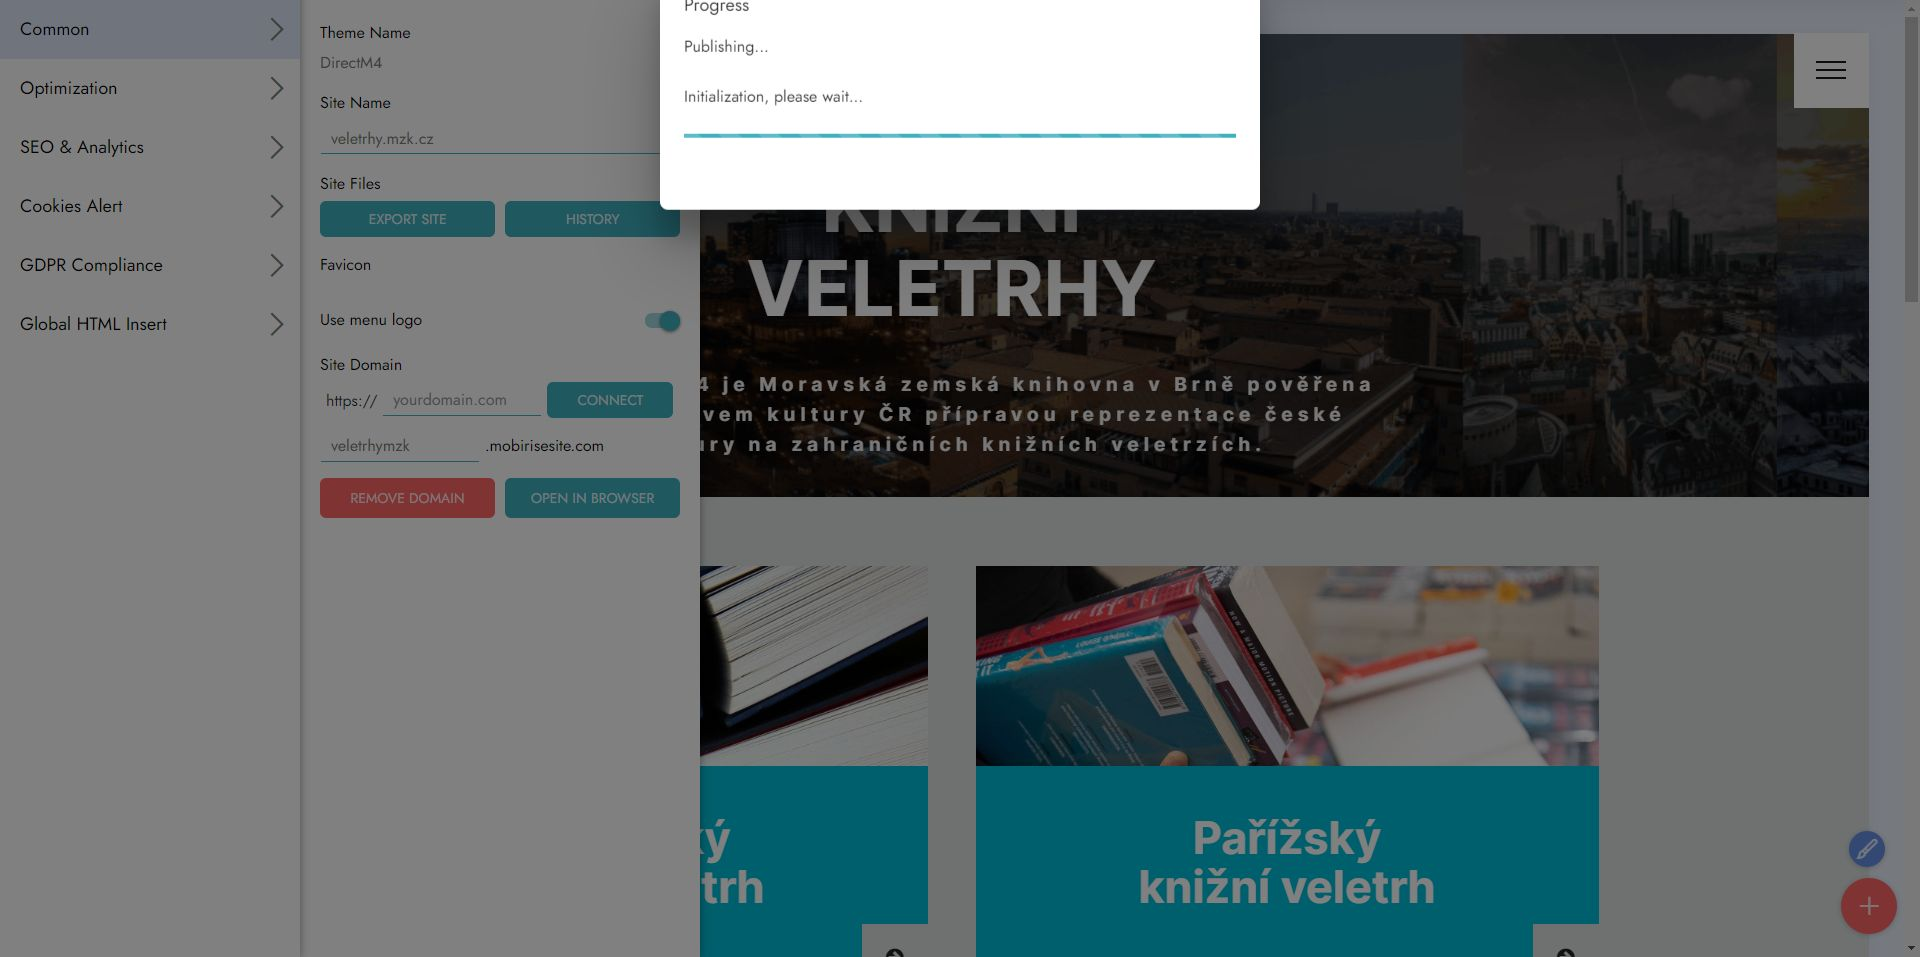
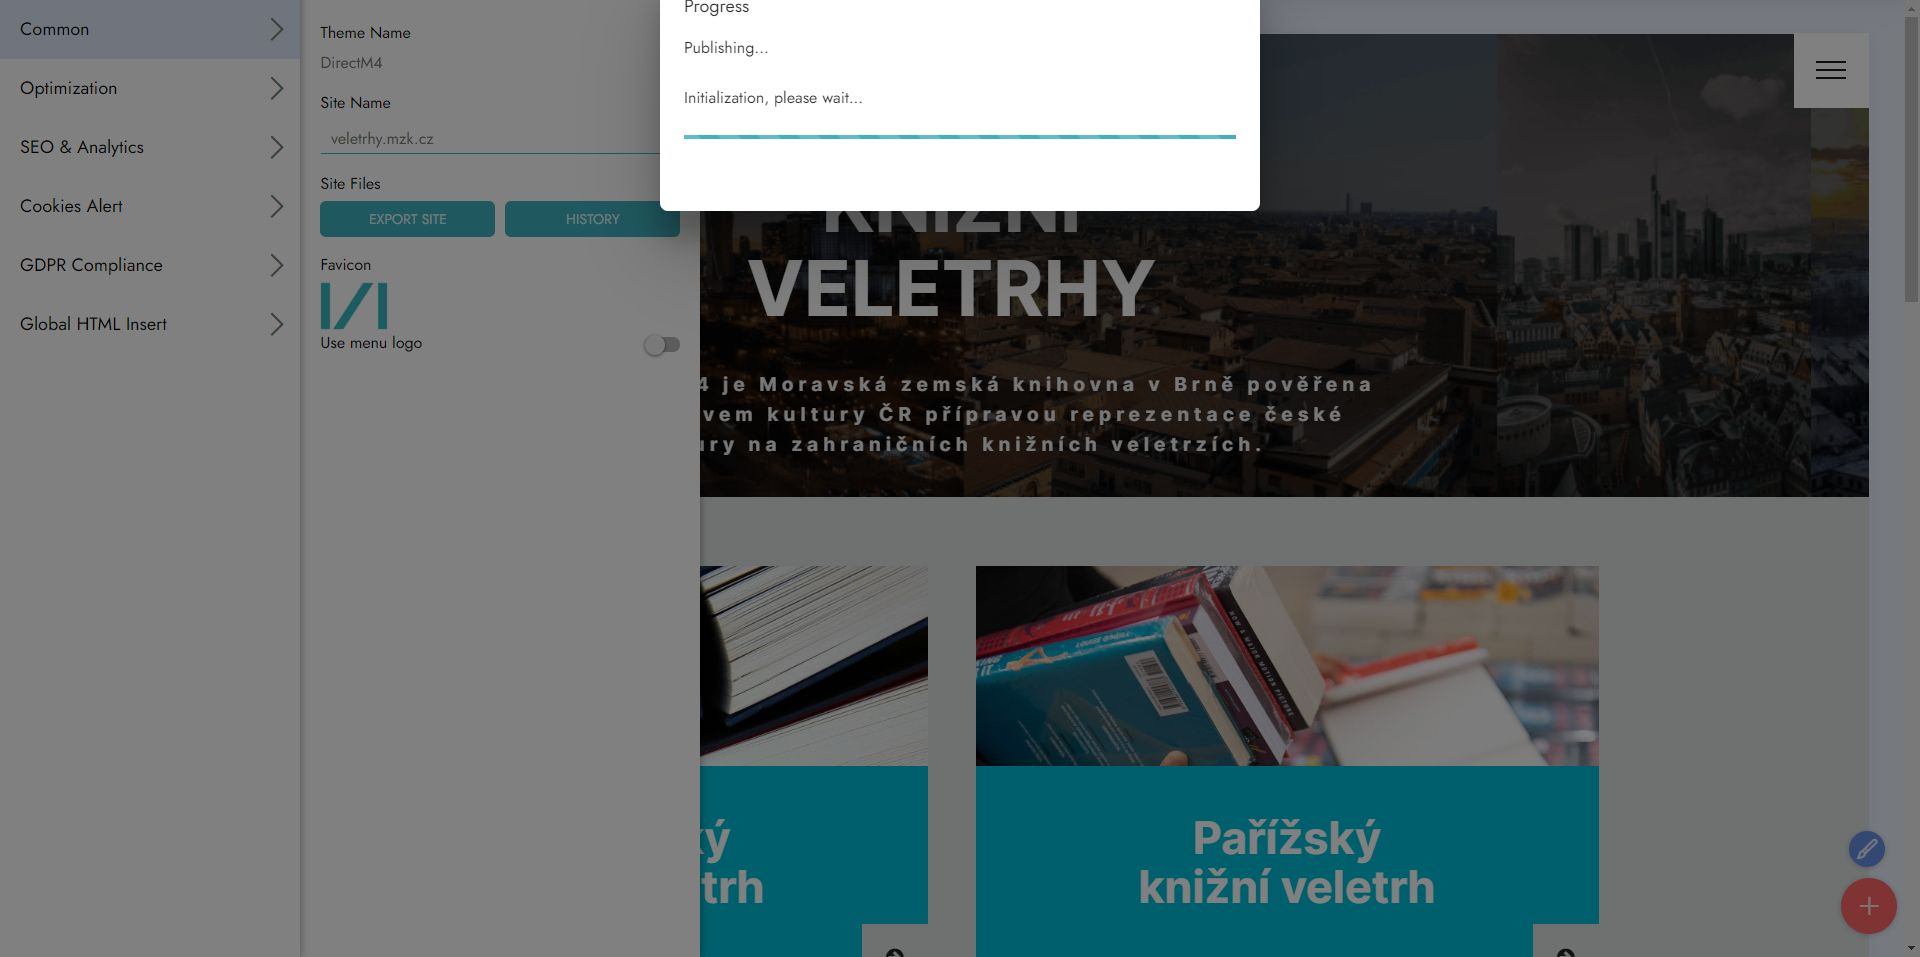
new_favicon

diff --git a/docs/index.html b/docs/index.html
@@ -6,7 +6,7 @@
   <meta http-equiv="X-UA-Compatible" content="IE=edge">
   
   <meta name="viewport" content="width=device-width, initial-scale=1, minimum-scale=1">
-  <link rel="shortcut icon" href="assets/images/mzk-bily-text-cz-121x44.png" type="image/x-icon">
+  <link rel="shortcut icon" href="assets/images/logo-favicon-80x57.png" type="image/x-icon">
   <meta name="description" content="">
   
   
@@ -252,7 +252,7 @@
         <div class="row main-row justify-content-center">
             <div class="col-sm-12 col-lg-8 col-md-6" data-form-type="formoid">
                 <!---Formbuilder Form--->
[2 lines of base64/hex data omitted]
                     <div class="row">
                         <div hidden="hidden" data-form-alert="" class="alert alert-success col-12">Díky za vyplnění</div>
                         <div hidden="hidden" data-form-alert-danger="" class="alert alert-danger col-12">

diff --git a/docs/international-books-fairs.html b/docs/international-books-fairs.html
@@ -6,7 +6,7 @@
   <meta http-equiv="X-UA-Compatible" content="IE=edge">
   
   <meta name="viewport" content="width=device-width, initial-scale=1, minimum-scale=1">
-  <link rel="shortcut icon" href="assets/images/mzk-bily-text-cz-121x44.png" type="image/x-icon">
+  <link rel="shortcut icon" href="assets/images/logo-favicon-80x57.png" type="image/x-icon">
   <meta name="description" content="">
   
   
@@ -251,7 +251,7 @@
         <div class="row main-row justify-content-center">
             <div class="col-sm-12 col-lg-8 col-md-6" data-form-type="formoid">
                 <!---Formbuilder Form--->
[2 lines of base64/hex data omitted]
                     <div class="row">
                         <div hidden="hidden" data-form-alert="" class="alert alert-success col-12">Thanks for filling.</div>
                         <div hidden="hidden" data-form-alert-danger="" class="alert alert-danger col-12">

diff --git a/docs/promedia.html b/docs/promedia.html
@@ -6,7 +6,7 @@
   <meta http-equiv="X-UA-Compatible" content="IE=edge">
   
   <meta name="viewport" content="width=device-width, initial-scale=1, minimum-scale=1">
-  <link rel="shortcut icon" href="assets/images/mzk-bily-text-cz-121x44.png" type="image/x-icon">
+  <link rel="shortcut icon" href="assets/images/logo-favicon-80x57.png" type="image/x-icon">
   <meta name="description" content="">
   
   
@@ -221,7 +221,7 @@
         <div class="row main-row justify-content-center">
             <div class="col-sm-12 col-lg-8 col-md-6" data-form-type="formoid">
                 <!---Formbuilder Form--->
[2 lines of base64/hex data omitted]
                     <div class="row">
                         <div hidden="hidden" data-form-alert="" class="alert alert-success col-12">Díky za vyplnění</div>
                         <div hidden="hidden" data-form-alert-danger="" class="alert alert-danger col-12">

diff --git a/docs/bologna-history.html b/docs/bologna-history.html
@@ -6,7 +6,7 @@
   <meta http-equiv="X-UA-Compatible" content="IE=edge">
   
   <meta name="viewport" content="width=device-width, initial-scale=1, minimum-scale=1">
-  <link rel="shortcut icon" href="assets/images/mzk-bily-text-cz-121x44.png" type="image/x-icon">
+  <link rel="shortcut icon" href="assets/images/logo-favicon-80x57.png" type="image/x-icon">
   <meta name="description" content="">
   
   

diff --git a/docs/frankfurt-historie.html b/docs/frankfurt-historie.html
@@ -6,7 +6,7 @@
   <meta http-equiv="X-UA-Compatible" content="IE=edge">
   
   <meta name="viewport" content="width=device-width, initial-scale=1, minimum-scale=1">
-  <link rel="shortcut icon" href="assets/images/mzk-bily-text-cz-121x44.png" type="image/x-icon">
+  <link rel="shortcut icon" href="assets/images/logo-favicon-80x57.png" type="image/x-icon">
   <meta name="description" content="">
   
   

diff --git a/docs/lipsko-historie.html b/docs/lipsko-historie.html
@@ -6,7 +6,7 @@
   <meta http-equiv="X-UA-Compatible" content="IE=edge">
   
   <meta name="viewport" content="width=device-width, initial-scale=1, minimum-scale=1">
-  <link rel="shortcut icon" href="assets/images/mzk-bily-text-cz-121x44.png" type="image/x-icon">
+  <link rel="shortcut icon" href="assets/images/logo-favicon-80x57.png" type="image/x-icon">
   <meta name="description" content="">
   
   

diff --git a/docs/lipsko-program.html b/docs/lipsko-program.html
@@ -6,7 +6,7 @@
   <meta http-equiv="X-UA-Compatible" content="IE=edge">
   
   <meta name="viewport" content="width=device-width, initial-scale=1, minimum-scale=1">
-  <link rel="shortcut icon" href="assets/images/mzk-bily-text-cz-121x44.png" type="image/x-icon">
+  <link rel="shortcut icon" href="assets/images/logo-favicon-80x57.png" type="image/x-icon">
   <meta name="description" content="">
   
   

diff --git a/docs/londyn-history.html b/docs/londyn-history.html
@@ -6,7 +6,7 @@
   <meta http-equiv="X-UA-Compatible" content="IE=edge">
   
   <meta name="viewport" content="width=device-width, initial-scale=1, minimum-scale=1">
-  <link rel="shortcut icon" href="assets/images/mzk-bily-text-cz-121x44.png" type="image/x-icon">
+  <link rel="shortcut icon" href="assets/images/logo-favicon-80x57.png" type="image/x-icon">
   <meta name="description" content="">
   
   

diff --git a/docs/pariz-program.html b/docs/pariz-program.html
@@ -6,7 +6,7 @@
   <meta http-equiv="X-UA-Compatible" content="IE=edge">
   
   <meta name="viewport" content="width=device-width, initial-scale=1, minimum-scale=1">
-  <link rel="shortcut icon" href="assets/images/mzk-bily-text-cz-121x44.png" type="image/x-icon">
+  <link rel="shortcut icon" href="assets/images/logo-favicon-80x57.png" type="image/x-icon">
   <meta name="description" content="">
   
   

diff --git a/docs/varsava-program.html b/docs/varsava-program.html
@@ -6,7 +6,7 @@
   <meta http-equiv="X-UA-Compatible" content="IE=edge">
   
   <meta name="viewport" content="width=device-width, initial-scale=1, minimum-scale=1">
-  <link rel="shortcut icon" href="assets/images/mzk-bily-text-cz-121x44.png" type="image/x-icon">
+  <link rel="shortcut icon" href="assets/images/logo-favicon-80x57.png" type="image/x-icon">
   <meta name="description" content="">
   
   

diff --git a/docs/veletrh-bologna.html b/docs/veletrh-bologna.html
@@ -6,7 +6,7 @@
   <meta http-equiv="X-UA-Compatible" content="IE=edge">
   
   <meta name="viewport" content="width=device-width, initial-scale=1, minimum-scale=1">
-  <link rel="shortcut icon" href="assets/images/mzk-bily-text-cz-121x44.png" type="image/x-icon">
+  <link rel="shortcut icon" href="assets/images/logo-favicon-80x57.png" type="image/x-icon">
   <meta name="description" content="">
   
   

diff --git a/docs/veletrh-frankfurt.html b/docs/veletrh-frankfurt.html
@@ -6,7 +6,7 @@
   <meta http-equiv="X-UA-Compatible" content="IE=edge">
   
   <meta name="viewport" content="width=device-width, initial-scale=1, minimum-scale=1">
-  <link rel="shortcut icon" href="assets/images/mzk-bily-text-cz-121x44.png" type="image/x-icon">
+  <link rel="shortcut icon" href="assets/images/logo-favicon-80x57.png" type="image/x-icon">
   <meta name="description" content="">
   
   
